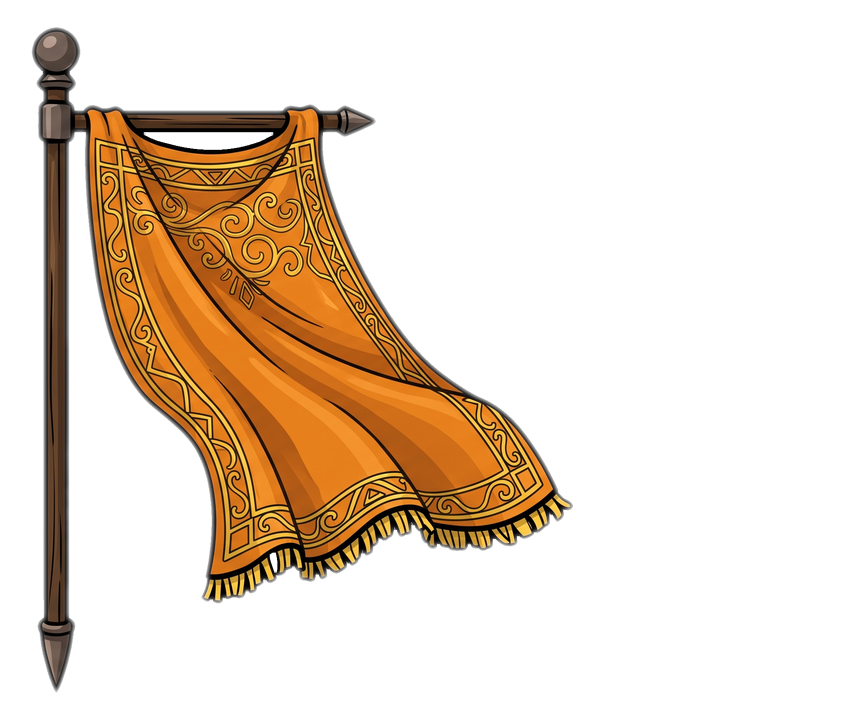
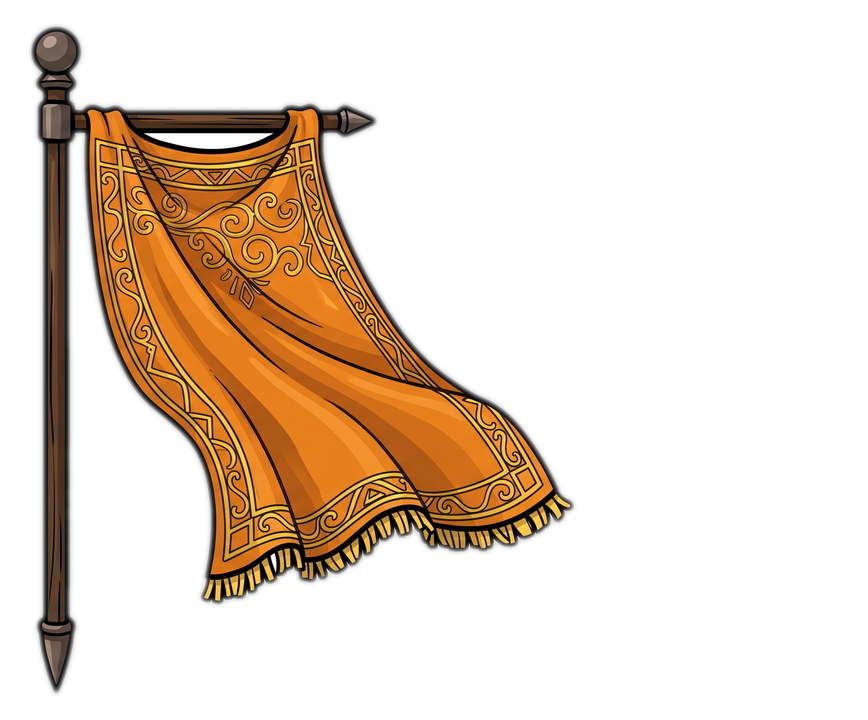
Annonces supers/événements map, drapeau blanc et véhicule plus bas.
Les supers et events affichent titre + explication ; le cutout des drapeaux préserve le blanc ; la voiturette sécu est abaissée.

diff --git a/src/terrains.js b/src/terrains.js
@@ -239,9 +239,8 @@ function drawResortCart(t) {
   const horn = !mapEventsQuiet &&
     (mapEvent.phase === "fire" || (mapEvent.phase === "flying" && mapEvent.t < 18));
   const img = horn && spriteReady(p.cartHorn) ? p.cartHorn : p.cart;
-  // Midground : pelouse juste devant la clôture fer forgé (pas le sol joueurs)
-  // Clôture skyline ≈ GROUND_Y - 295 ; pieds du caddy un peu devant.
-  const footY = GROUND_Y - 200;
+  // Midground : un peu au-dessus du sol joueurs (plus bas qu'avant)
+  const footY = GROUND_Y - 110;
   const drawH = 78;
   let a = 1;
   if (cx < 50) a = Math.max(0, (cx + 70) / 120);
@@ -1515,16 +1514,56 @@ function drawHUD() {
     }
   }
 
-  // message flash de SUPER
+  // message flash de SUPER (nom + explication)
   if (superFlashT > 0 && superFlash) {
+    const alpha = Math.min(1, superFlashT / 18);
     ctx.textAlign = "center";
-    ctx.globalAlpha = Math.min(1, superFlashT / 12);
-    ctx.fillStyle = "#ffd84a";
+    ctx.globalAlpha = alpha;
+    const titleY = 118;
+    ctx.fillStyle = "rgba(12,20,42,0.72)";
+    const boxW = Math.min(640, W - 48);
+    const boxH = superFlashSub ? 64 : 44;
+    const bx = NET_X - boxW / 2, by = titleY - 28;
+    ctx.beginPath();
+    if (ctx.roundRect) ctx.roundRect(bx, by, boxW, boxH, 12); else ctx.rect(bx, by, boxW, boxH);
+    ctx.fill();
     ctx.strokeStyle = STROKE;
-    ctx.lineWidth = 5; ctx.lineJoin = "round";
-    ctx.font = "700 34px " + DISP;
-    ctx.strokeText(superFlash, NET_X, 150);
-    ctx.fillText(superFlash, NET_X, 150);
+    ctx.lineWidth = 3; ctx.lineJoin = "round";
+    ctx.font = "700 26px " + DISP;
+    ctx.strokeText(superFlash, NET_X, titleY);
+    ctx.fillStyle = "#ffd84a";
+    ctx.fillText(superFlash, NET_X, titleY);
+    if (superFlashSub) {
+      ctx.font = "700 13px " + SANS;
+      ctx.fillStyle = "rgba(255,246,232,0.95)";
+      ctx.fillText(superFlashSub, NET_X, titleY + 22);
+    }
+    ctx.globalAlpha = 1;
+  }
+
+  // Annonce événement de map
+  if (typeof mapEventFlashT !== "undefined" && mapEventFlashT > 0 && mapEventFlash) {
+    const alpha = Math.min(1, mapEventFlashT / 16);
+    ctx.textAlign = "center";
+    ctx.globalAlpha = alpha;
+    const titleY = (superFlashT > 0 && superFlash) ? 188 : 118;
+    const boxW = Math.min(660, W - 40);
+    const boxH = mapEventFlashSub ? 58 : 40;
+    const bx = NET_X - boxW / 2, by = titleY - 24;
+    ctx.fillStyle = "rgba(12,20,42,0.78)";
+    ctx.beginPath();
+    if (ctx.roundRect) ctx.roundRect(bx, by, boxW, boxH, 12); else ctx.rect(bx, by, boxW, boxH);
+    ctx.fill();
+    ctx.font = "700 22px " + DISP;
+    ctx.strokeStyle = STROKE; ctx.lineWidth = 3; ctx.lineJoin = "round";
+    ctx.strokeText(mapEventFlash, NET_X, titleY);
+    ctx.fillStyle = "#ff9800";
+    ctx.fillText(mapEventFlash, NET_X, titleY);
+    if (mapEventFlashSub) {
+      ctx.font = "700 12px " + SANS;
+      ctx.fillStyle = "rgba(255,246,232,0.95)";
+      ctx.fillText(mapEventFlashSub, NET_X, titleY + 20);
+    }
     ctx.globalAlpha = 1;
   }
 

diff --git a/src/scenery.js b/src/scenery.js
@@ -224,6 +224,7 @@ function resetMapEvent() {
   mapEvent.zoneX = 0;
   mapEvent.zoneW = 150;
   mapEvent.balls = [];
+  mapEventFlash = ""; mapEventFlashSub = ""; mapEventFlashT = 0;
 }
 
 function scheduleNextMapEvent() {
@@ -237,6 +238,7 @@ function scheduleNextMapEvent() {
   mapEvent.cartDir = 1;
   mapEvent.zoneX = 0;
   mapEvent.balls = [];
+  mapEventFlash = ""; mapEventFlashSub = ""; mapEventFlashT = 0;
 }
 
 /** Déplacement continu du caddie hors event (une seule position, jamais de pop).
@@ -257,6 +259,42 @@ function mapEventKind() {
   if (k === "neige") return "cannon";
   if (k === "plage") return "cart";
   return null;
+}
+
+/** Textes d'annonce pour l'événement de map courant. */
+function mapEventAnnounceCopy(kind, phase) {
+  if (kind === "cannon") {
+    if (phase === "warn") {
+      return {
+        title: "Canon d'apparat en approche !",
+        sub: "Un boulet va traverser le terrain — il dévie la balle au contact."
+      };
+    }
+    return {
+      title: "Boulet en vol !",
+      sub: "Évite le projectile — collision = déviation."
+    };
+  }
+  if (kind === "cart") {
+    if (phase === "warn") {
+      return {
+        title: "Cortège sécu en approche !",
+        sub: "Zone orange dangereuse — pluie de balles de golf imminente."
+      };
+    }
+    return {
+      title: "Pluie de golf !",
+      sub: "Les balles de golf dévient la volley au contact."
+    };
+  }
+  return { title: "Événement de map !", sub: "" };
+}
+
+function flashMapEventAnnounce(kind, phase) {
+  const copy = mapEventAnnounceCopy(kind, phase);
+  mapEventFlash = copy.title;
+  mapEventFlashSub = copy.sub;
+  mapEventFlashT = phase === "warn" ? MAP_EVENT_WARN_T + 30 : 90;
 }
 
 function mapEventActiveTerrain() {
@@ -352,6 +390,7 @@ function stepMapEvent() {
     if (--mapEvent.timer <= 0) {
       mapEvent.phase = "warn";
       mapEvent.t = 0;
+      flashMapEventAnnounce(kind, "warn");
       if (kind === "cart") {
         mapEvent.zoneW = 140 + Math.floor(rng() * 40);
         mapEvent.zoneX = 160 + Math.floor(rng() * (W - 320));
@@ -377,6 +416,7 @@ function stepMapEvent() {
     if (mapEvent.t >= MAP_EVENT_WARN_T) {
       mapEvent.phase = "fire";
       mapEvent.t = 0;
+      flashMapEventAnnounce(kind, "fire");
     }
     return;
   }

diff --git a/src/scoring.js b/src/scoring.js
@@ -56,7 +56,15 @@ function awardPoint(side, reason) {
     superCharge[side] = 1;
     beep(700, 0.12, "square", 0.16, 0, 1050);
     beep(1050, 0.16, "square", 0.14, 0.1, 1500);
-    superFlash = "SUPER PRÊT — " + sideLabel(side) + " !"; superFlashT = 70;
+    superFlash = "SUPER PRÊT — " + sideLabel(side) + " !";
+    const readyBlob = activeBlobs.find(b => b.side === side);
+    if (readyBlob) {
+      const a = charOf(readyBlob);
+      superFlashSub = "Appuie sur SUPER — " + (a.superName || "technique") + " : " + (a.superDesc || "");
+    } else {
+      superFlashSub = "Appuie sur SUPER pour lancer ta technique.";
+    }
+    superFlashT = 90;
   }
   const name = sideLabel(side);
   pointMsg = reason ? reason + "  —  Point " + name : "Point pour " + name + " !";

diff --git a/src/simulation.js b/src/simulation.js
@@ -91,7 +91,9 @@ function maybeActivateSuper(blob, input) {
   superCharge[blob.side] = 0;
   blob.superKind = a.key;
   blob.superT = SUPER_DUR[a.key] || 50;
-  superFlash = a.name + " !"; superFlashT = 48;
+  superFlash = a.superName || (a.name + " !");
+  superFlashSub = a.superDesc || "";
+  superFlashT = 110;
   shake = Math.max(shake, 7);
   crowdHype = Math.max(crowdHype, 45);
   spawnSuperBurst(blob);
@@ -164,6 +166,7 @@ function stepGame(inL, inR, ins, opts) {
   tick++;
   stepWeather();
   if (superFlashT > 0) superFlashT--;
+  if (typeof mapEventFlashT !== "undefined" && mapEventFlashT > 0) mapEventFlashT--;
   if (battle.cooldown > 0) battle.cooldown--;
   if (battle.active && !ins) {
     stepBattle(inL, inR);

diff --git a/src/state.js b/src/state.js
@@ -258,8 +258,13 @@ const SUPER_DUR = {
 // Effets de zone SUPER (Phase 4 — stubs jouables pour le pilote)
 // { kind, side, t, data } — side = camp qui subit / où est l'effet
 let superEffects = [];
-let superFlash = "";          // libellé "SUPER !" affiché brièvement
+let superFlash = "";          // titre SUPER (nom)
+let superFlashSub = "";       // explication courte
 let superFlashT = 0;
+// Bannière événements de map (canon / cortège…)
+let mapEventFlash = "";
+let mapEventFlashSub = "";
+let mapEventFlashT = 0;
 
 class Blob {
   constructor(side, color, darkColor) {

diff --git a/src/net.js b/src/net.js
@@ -1003,8 +1003,10 @@ function guestDetectEvents(prev, d) {
       shake = Math.max(shake, 7);
       crowdHype = Math.max(crowdHype, 45);
       superSound(cb.superKind || charOf(activeBlobs[i]).key);
-      superFlash = CHARACTERS[cb.charId].name + " !";
-      superFlashT = 48;
+      const ch = CHARACTERS[cb.charId];
+      superFlash = (ch && ch.superName) || ((ch && ch.name) ? ch.name + " !" : "SUPER !");
+      superFlashSub = (ch && ch.superDesc) || "";
+      superFlashT = 110;
       spawnSuperBurst(activeBlobs[i]);
     }
   }

diff --git a/src/menus.js b/src/menus.js
@@ -286,7 +286,8 @@ function newGame(seed) {
   xOn.fill(false);
   for (const b of [blobL, blob2L, blobR, blob2R]) b._xSpd = undefined;
   streak[0] = streak[1] = 0; superCharge[0] = superCharge[1] = 0;
-  superFlash = ""; superFlashT = 0;
+  superFlash = ""; superFlashSub = ""; superFlashT = 0;
+  mapEventFlash = ""; mapEventFlashSub = ""; mapEventFlashT = 0;
   resetWeather();
   servingSide = rng() < 0.5 ? 0 : 1;
   startRally();

diff --git a/tools/cutout.py b/tools/cutout.py
@@ -213,10 +213,25 @@ def apply_cutout(im: Image.Image, prop: bool = False) -> Image.Image:
     return out
 
 
-def process_prop(src: Path, dst: Path, target_h: int = 720):
-    """Détourage prop (drapeau…) : pas d'ancrage pieds, punch blancs agressif."""
-    im = Image.open(src)
-    cut = apply_cutout(im, prop=True)
+def process_prop(src: Path, dst: Path, target_h: int = 720, preserve_white: bool = False):
+    """Détourage prop (drapeau…) : pas d'ancrage pieds.
+
+    preserve_white=True pour drapeaux / bannières : on ne perce PAS les
+    îlots blancs enfermés (sinon les bandes blanches deviennent transparentes).
+    """
+    im = Image.open(src).convert("RGBA")
+    if preserve_white:
+        bg = flood_bg_mask(im)
+        cut = im.copy()
+        op, bp = cut.load(), bg.load()
+        w, h = cut.size
+        for y in range(h):
+            for x in range(w):
+                r, g, b, a = op[x, y]
+                fade = bp[x, y] / 255.0
+                op[x, y] = (r, g, b, int(a * (1.0 - fade)))
+    else:
+        cut = apply_cutout(im, prop=True)
     # crop contenu + scale hauteur
     bb = content_bbox(cut)
     cropped = cut.crop(bb)
@@ -231,10 +246,11 @@ def process_prop(src: Path, dst: Path, target_h: int = 720):
     scale = target_h / padded.height
     nw, nh = max(1, int(padded.width * scale)), target_h
     norm = padded.resize((nw, nh), Image.Resampling.LANCZOS)
-    norm = despill_white_fringe(norm)
+    if not preserve_white:
+        norm = despill_white_fringe(norm)
     dst.parent.mkdir(parents=True, exist_ok=True)
     norm.save(dst)
-    print(f"  {src.name} → {dst} (prop)")
+    print(f"  {src.name} → {dst} (prop{', blancs gardés' if preserve_white else ''})")
 
 
 def _has_transparent_neighbor(px, x, y, w, h, a_thr: int = 40) -> bool:
@@ -424,12 +440,22 @@ def main():
         print(__doc__)
         sys.exit(1)
     raw_dir, out_dir = Path(sys.argv[1]), Path(sys.argv[2])
+    # Props maps : flag / warn / flower… — le reste passe en perso
+    PROP_NAMES = {
+        "flag", "warn", "flower", "palm", "net_post", "cart_0", "cart_1",
+        "cannon", "cannon_fire", "snowman", "radar_0", "radar_1", "pigeon",
+    }
+    FLAG_KEEP_WHITE = {"flag"}  # bandes blanches du drapeau
     outs = []
     for src in sorted(raw_dir.glob("*.png")):
         if src.name.startswith("_"):
             continue
         dst = out_dir / src.name
-        process_one(src, dst)
+        stem = src.stem
+        if stem in PROP_NAMES or src.name in {n + ".png" for n in PROP_NAMES}:
+            process_prop(src, dst, preserve_white=(stem in FLAG_KEEP_WHITE))
+        else:
+            process_one(src, dst)
         outs.append(dst)
     contact_sheet(outs, out_dir / "_contact.png")
 
